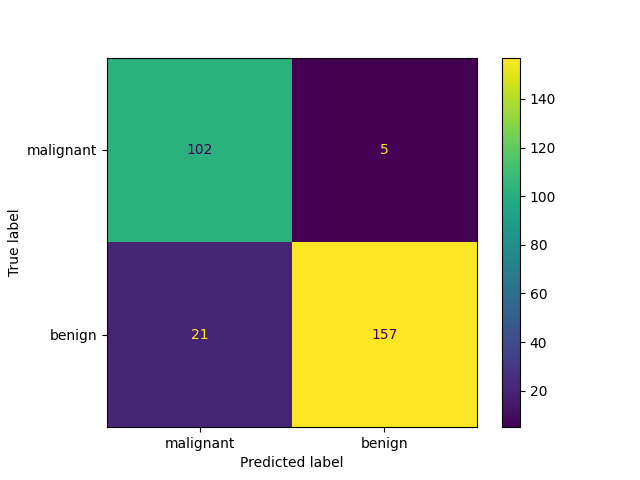
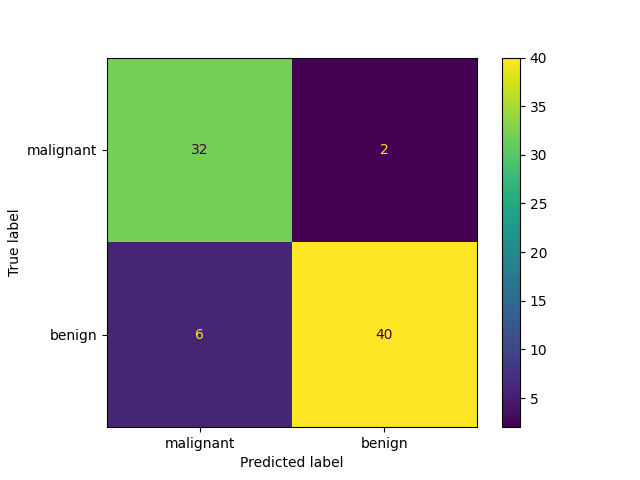
readme

diff --git a/decision_tree.py b/decision_tree.py
@@ -12,9 +12,37 @@ class DecisionTree(DecisionTreeClassifier):
     dataset = None
     dataframe = None
 
-    def set_dataset(self, dataset):
+    def __init__(self,
+                 *,
+                 criterion="gini",
+                 splitter="best",
+                 max_depth=None,
+                 min_samples_split=2,
+                 min_samples_leaf=1,
+                 min_weight_fraction_leaf=0.0,
+                 max_features=None,
+                 random_state=None,
+                 max_leaf_nodes=None,
+                 min_impurity_decrease=0.0,
+                 class_weight=None,
+                 ccp_alpha=0.0, dataset, test_size):
         self.dataset = dataset
         self.build_dataframe()
+        self.test_size=test_size
+        super(DecisionTree, self).__init__(
+            criterion=criterion,
+            splitter=splitter,
+            max_depth=max_depth,
+            min_samples_split=min_samples_split,
+            min_samples_leaf=min_samples_leaf,
+            min_weight_fraction_leaf=min_weight_fraction_leaf,
+            max_features=max_features,
+            random_state=random_state,
+            max_leaf_nodes=max_leaf_nodes,
+            min_impurity_decrease=min_impurity_decrease,
+            class_weight=class_weight,
+            ccp_alpha=ccp_alpha)
+
 
     def export_dataframe(self):
         self.dataframe.to_excel("output.xlsx")
@@ -40,7 +68,7 @@ class DecisionTree(DecisionTreeClassifier):
         # random state é a aleatoriedade na divisão. serve pra não ficar um conjunto com com maligno e outro só com benigno, por exemplo
         self.train_features, self.test_features, self.target_train, self.target_test = train_test_split(feature_data,
                                                                                                         target,
-                                                                                                        test_size=0.5)
+                                                                                                        test_size=self.test_size)
         print(f'Train shape: {self.train_features.shape}')
         print(f'Test shape: {self.test_features.shape}')
         self.fit(self.train_features, self.target_train)
@@ -57,7 +85,8 @@ class DecisionTree(DecisionTreeClassifier):
         return confusion_matrix(self.target_test, self.get_predictions(), labels=[0, 1])
 
     def plot_confusion_matrix(self):
-        ConfusionMatrixDisplay.from_predictions(self.target_test, self.get_predictions(),  display_labels=self.dataset.target_names,)
+        ConfusionMatrixDisplay.from_predictions(self.target_test, self.get_predictions(),
+                                                display_labels=self.dataset.target_names, )
         pyplot.savefig('confusion_matrix.png')
 
     def get_accuracy_score(self):

diff --git a/main2.py b/main2.py
@@ -1,0 +1,44 @@
+import random
+
+from numpy import mean, std
+from sklearn.datasets import load_breast_cancer
+from sklearn.tree import export_text
+
+from decision_tree import DecisionTree
+
+
+def get_best_values(criterion, max_depth, test_size):
+    decision_tree = DecisionTree(criterion=criterion, max_depth=max_depth, dataset=load_breast_cancer(),
+                                 test_size=test_size)
+    decision_tree.export_dataframe()
+    decision_tree.train()
+    return decision_tree.get_f1_score()
+
+
+best_f1 = 0
+best_max_depth = 0
+best_test_size = 0
+best_method = ''
+for i in range(100):
+    max_depth = round(random.uniform(1, 100),1)
+    test_size = round(random.uniform(0.1, 0.9),2)
+    f1 = get_best_values('entropy', max_depth, test_size)
+    if f1 > best_f1:
+        best_f1 = f1
+        best_max_depth = max_depth
+        best_test_size = test_size
+        best_method = 'entropy'
+
+for i in range(100):
+    max_depth = round(random.uniform(1, 100),1)
+    test_size = round(random.uniform(0.1, 0.9),2)
+    f1 = get_best_values('gini', max_depth, test_size)
+    if f1 > best_f1:
+        best_f1 = f1
+        best_max_depth = max_depth
+        best_test_size = test_size
+        best_method = 'gini'
+print(f'best_f1 {best_f1}')
+print(f'best_max_depth {best_max_depth}')
+print(f'best_test_size {best_test_size}')
+print(f'best_method  {best_method }')

diff --git a/main.py b/main.py
@@ -4,8 +4,7 @@ from sklearn.tree import export_text
 
 from decision_tree import DecisionTree
 
-decision_tree = DecisionTree(criterion='entropy',max_depth=15)
-decision_tree.set_dataset(load_breast_cancer())
+decision_tree = DecisionTree(criterion='entropy', max_depth=77.4, dataset=load_breast_cancer(), test_size=0.14)
 print(f'Features: {decision_tree.get_features()}')
 print(f'Target Names: {decision_tree.get_target_names()}')
 decision_tree.export_dataframe()
@@ -23,8 +22,7 @@ print(f'scores: {scores}')
 print(f"Cross validation Score Mean: {mean((scores))}")
 print(f"Cross validation standart deviation: {std(scores)}")
 
-
 print(decision_tree.get_feature_importance())
 decision_tree.plot_feature_importance(decision_tree.get_feature_importance(), 'bar')
 decision_tree.plot_decision_tree()
-print(export_text(decision_tree,feature_names=decision_tree.dataset.feature_names.tolist()))
+print(export_text(decision_tree, feature_names=decision_tree.dataset.feature_names.tolist()))

diff --git a/README.md b/README.md
@@ -26,6 +26,7 @@ extremamente fina e representam as características dos núcleos celulares prese
 <img width="300" src="https://encrypted-tbn0.gstatic.com/images?q=tbn:ANd9GcRnKoSZCrZOrRK-vdGQn_iZkWTdoSeQqCNE1eOF6VCXtNt-9Q-l3l4YUSNT93Aal7DdE0E&usqp=CAU">
 <img width="300" src="https://d3i71xaburhd42.cloudfront.net/50537a16eb18e2bc4971165258cba7a071f38cb7/2-Figure1-1.png">
 
+Estas características foram levantadas juntamente com médicos da área que até então consideraram as mesmas como relevantes durante a análise de um câncer de mama
 <table>
 <tr>
 <th colspan="100%">Características do conjunto de dados</th></tr>
@@ -59,4 +60,25 @@ Cada característica avaliada foi separada em 3 conjuntos. Média, desvio padrã
 
 ## Técnica
 
-<p>Para desenvolver o trabalho, foi utilizada a biblioteca Scikit Learn, que é uma biblioteca de machine learning presente na linguagem Python. A biblioteca foi utilizada pois já fornece nativamente uma grande quantia de datasets prontos para uso e também um módulo que nos permite aplicar a téncica da Árvore de Decisão, um dos métodos mais comuns dentro da aprendizagem de máquina, para realizar a classificação desejada.
+<p>Para desenvolver o trabalho, foi utilizada a biblioteca Scikit Learn, que é uma biblioteca de machine learning presente na linguagem Python. A biblioteca foi utilizada pois já fornece nativamente uma grande quantia de datasets prontos para uso e também um módulo que nos permite aplicar a téncica da Árvore de Decisão, um dos métodos mais comuns dentro da aprendizagem de máquina, para realizar a classificação desejada.</p>
+<p>
+
+As entradas da árvore de decisão são os valores correspondentes às características retiradas dos núcleos celulares das massas dos nódulos das amostras, como por exemplo (Raio, perímetro, textura,etc), 
+![img_1.png](img_1.png)
+
+
+Com os valores destas características(entradas) a árvore realiza o processo de treinamento.
+Para o treinamento, foram utilizados os seguintes parâmetros: Profundidade da árvore, tamanho dos dados teste e o critério para realizar a divisão ótima das carecterísticas
+<li>Profundidade da árvore: 77.4</li>
+<li>Tamanho dos dados de teste: 0.14</li>
+<li>Crtitério de divisão: Entropia</li>
+
+
+
+
+
+
+
+Foi selecionado um data set do site fdp, e partir desses dados que em um mundo conseguem retornar como resposta se uma pessoa teve cancer, ou não, com isso foi pensado no desenvolvimento de uma arvore de decisao
+
+</p>
